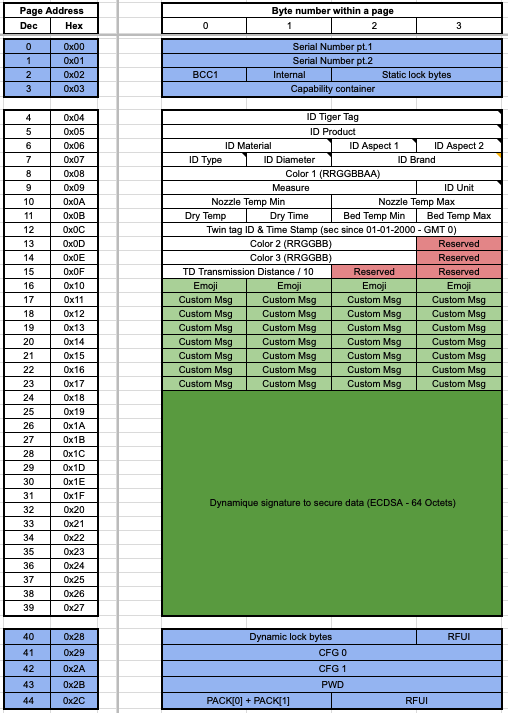
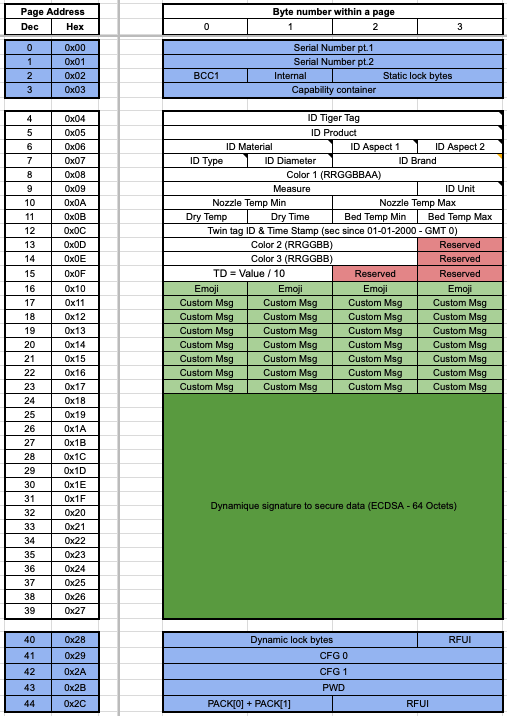
wip

Changed region(s): [[0.0, 0.0, 1.0, 1.0], [0.4142, 0.6788, 0.8876, 0.7097]]

diff --git a/README.md b/README.md
@@ -208,7 +208,7 @@ In the TigerTag format, the field `TD` is reserved to store the **HueForge Trans
 
 **Encoding:**
 - Length: **2 bytes** (unsigned, big-endian)
-- Scale: **value / 10**
+- TD : **value / 10**
 - Valid range: **0.1–100.0** (encoded **10–1000**); values outside this range are invalid
 
 **Examples:**
